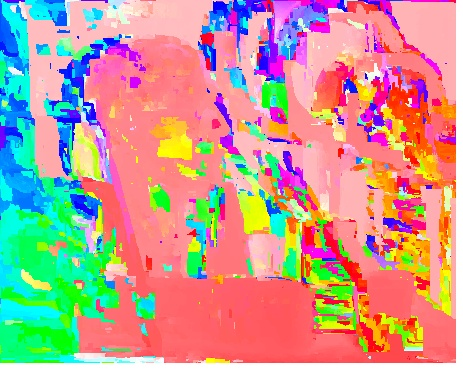
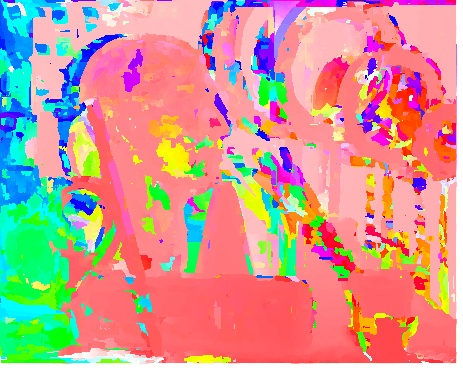
update

diff --git a/nanopm.h b/nanopm.h
@@ -492,7 +492,8 @@ bool ColorizeDistance(const Image1f& distance, Image3b& vis_distance,
                       tinycolormap::ColormapType type);
 #endif
 
-bool ColorizeDistance(const Image1f& distance, Image3b& vis_distance);
+bool ColorizeDistance(const Image1f& distance, Image3b& vis_distance,
+                      float max_d = 17000.0f, float min_d = 50.0f);
 
 /* end of declation of interface */
 
@@ -806,23 +807,27 @@ inline bool ColorizeDistance(const Image1f& distance, Image3b& vis_distance,
   }
 }
 #endif
-inline bool ColorizeDistance(const Image1f& distance, Image3b& vis_distance) {
+inline bool ColorizeDistance(const Image1f& distance, Image3b& vis_distance, float max_d, float min_d) {
   const float* raw_data = reinterpret_cast<float*>(distance.data);
   const int size = distance.cols * distance.rows;
-  std::vector<float> valid_data;
-  for (int i = 0; i < size; i++) {
-    if (raw_data[i] > 0.0f) {
-      valid_data.push_back(raw_data[i]);
+
+  if (max_d < 0.0f || min_d < 0.0f || max_d < min_d) {
+    min_d = -1.0f;
+    max_d = 0.0f;
+    std::vector<float> valid_data;
+    for (int i = 0; i < size; i++) {
+      if (raw_data[i] > 0.0f) {
+        valid_data.push_back(raw_data[i]);
+      }
     }
-  }
-  std::sort(valid_data.begin(), valid_data.end());
-  float r = 0.05f;
-  float min_d = -1.0f;
-  float max_d = 0.0f;
-  if (!valid_data.empty()) {
-    // get 5% an 95% percentile...
-    min_d = valid_data[static_cast<size_t>(valid_data.size() * r)];
-    max_d = valid_data[static_cast<size_t>(valid_data.size() * (1.0f - r))];
+    std::sort(valid_data.begin(), valid_data.end());
+    float r = 0.05f;
+    if (!valid_data.empty()) {
+      // get 5% an 95% percentile...
+      min_d = valid_data[static_cast<size_t>(valid_data.size() * r)];
+      max_d = valid_data[static_cast<size_t>(valid_data.size() * (1.0f - r))];
+    }
+    printf("max distance %f, min distance %f\n", max_d, min_d);
   }
 
   vis_distance = Image3b::zeros(distance.rows, distance.cols);

diff --git a/README.md b/README.md
@@ -4,7 +4,7 @@
 | |PatchMatch (350 ms.)|BruteForce as Ground Truth (18 min.)|
 |---|---|---|
 |NNF (Nearest Neighbor Field) |![](https://raw.github.com/wiki/unclearness/nanopm/images/art_nnf_20191120.gif)|![](data/scenes2005/Art/nnf_bruteforce.jpg)|
-|Distance|![](data/scenes2005/Art/distance.jpg)|![](data/scenes2005/Art/distance_bruteforce.jpg)|
+|Distance|![](https://raw.github.com/wiki/unclearness/nanopm/images/art_dist_20191120.gif)|![](data/scenes2005/Art/distance_bruteforce.jpg)|
 
 ## Example applications
 
